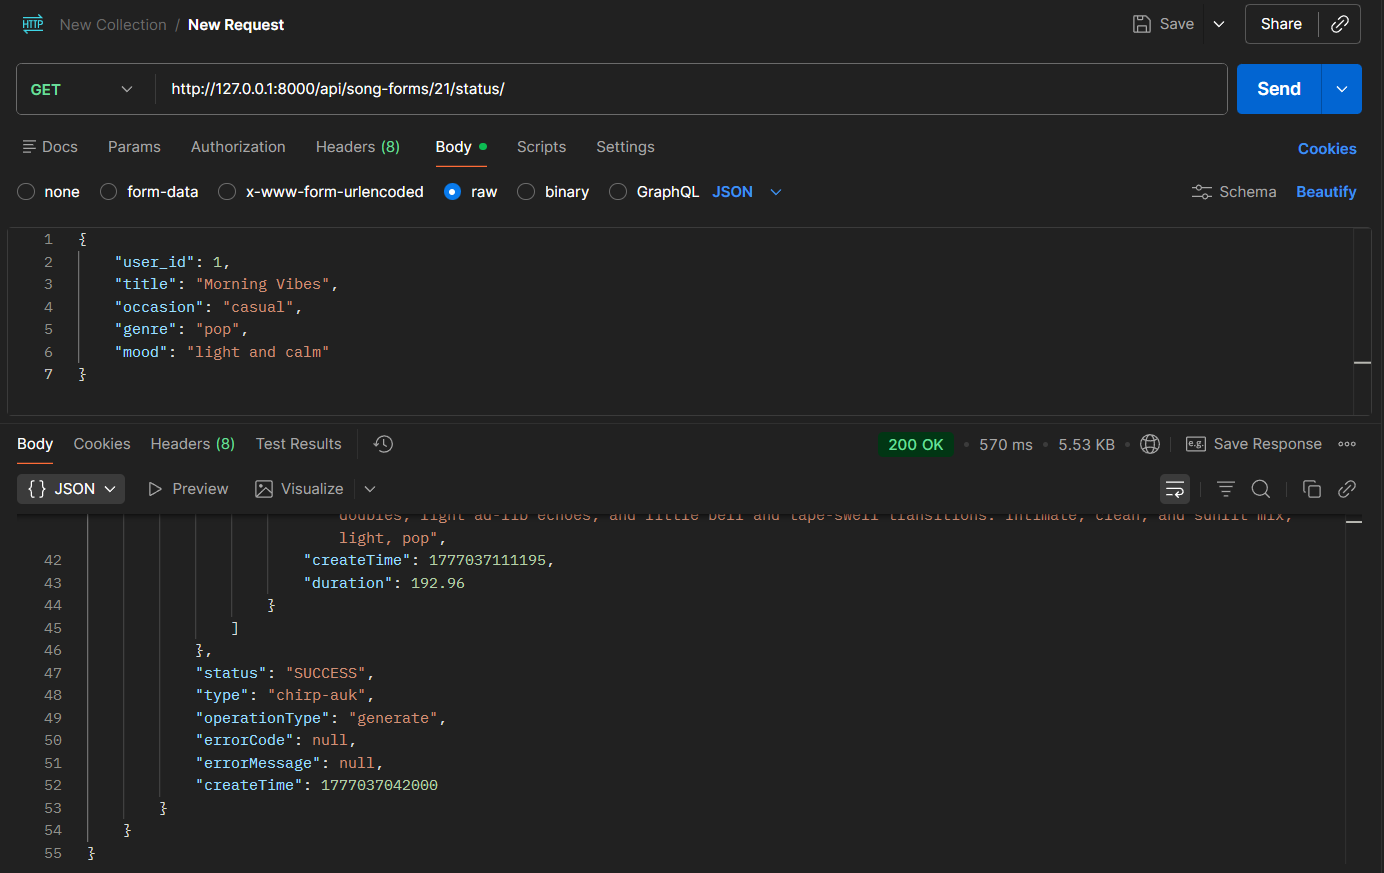
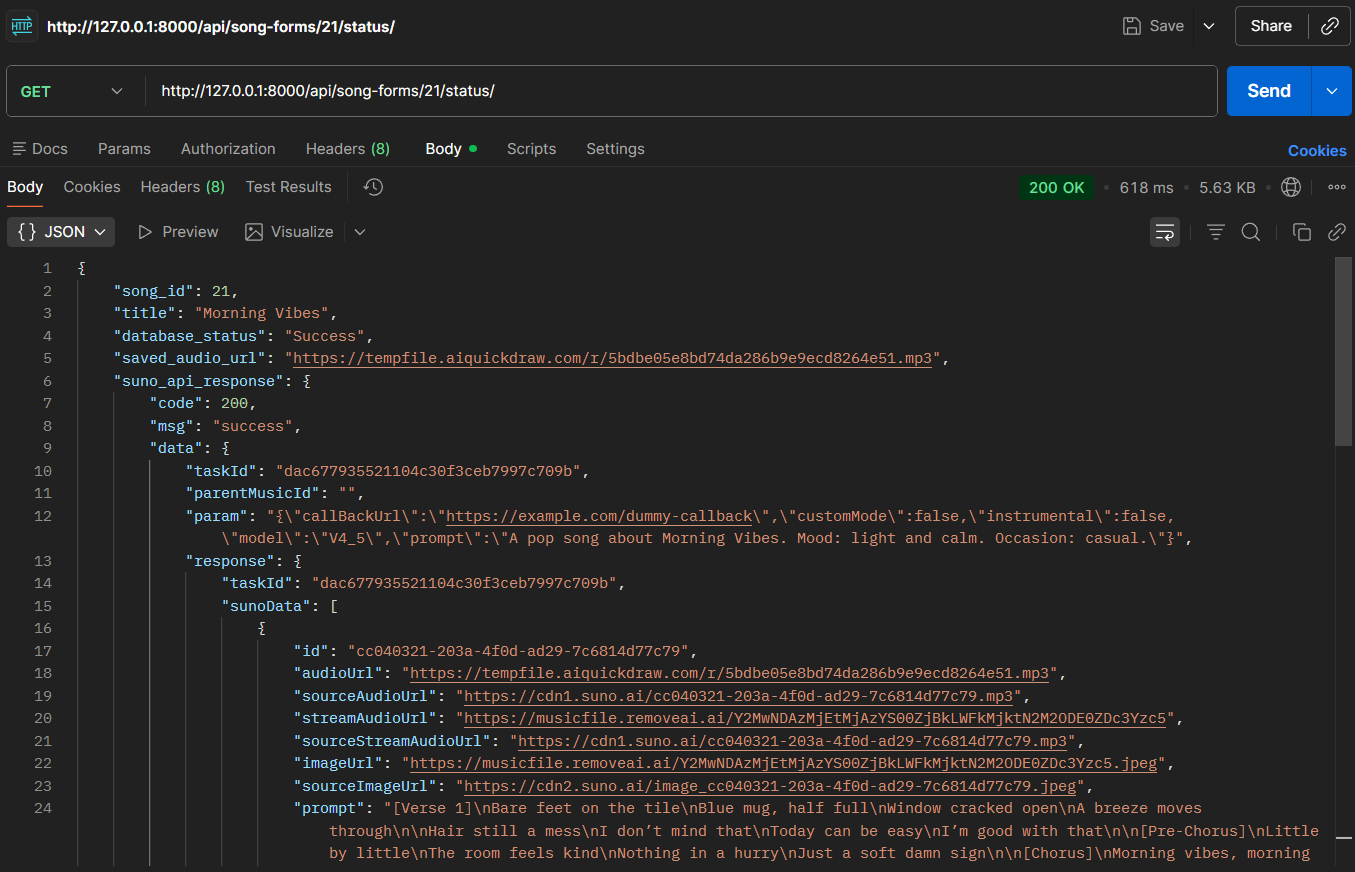
complete the database and make the model have 1 class per file

diff --git a/domain/views.py b/domain/views.py
@@ -1,7 +1,8 @@
 import json
 from django.http import JsonResponse
 from django.views.decorators.csrf import csrf_exempt
-from domain.models import Song, User
+from domain.models.song import Song
+from domain.models.user import User
 from domain.generation.factory import get_generator_strategy
 
 # --- 1. Endpoint to Create a User ---
@@ -13,17 +14,22 @@ def create_user_api(request):
             # Read the JSON data sent from Postman
             body = json.loads(request.body)
             
-            # Create the user in the database
-            # We use .get() so it doesn't crash if they forget to send a name
-            user = User.objects.create(
-                name=body.get('name', 'Anonymous User')
+            # Extract data with safe fallbacks
+            email = body.get('email', 'test@example.com')
+            name = body.get('name', 'Testing User')
+            
+            # Use get_or_create to prevent crashes on duplicate emails!
+            user, created = User.objects.get_or_create(
+                email=email,
+                defaults={'name': name}
             )
             
             return JsonResponse({
-                "message": "User created successfully",
+                "message": "User created successfully" if created else "User already exists",
                 "user_id": user.id,
-                "name": user.name
-            }, status=201)
+                "name": user.name,
+                "email": user.email
+            }, status=201 if created else 200)
             
         except Exception as e:
             return JsonResponse({"error": str(e)}, status=400)
@@ -74,28 +80,47 @@ def generate_song_api(request):
 
 @csrf_exempt
 def check_song_status_api(request, song_id):
-    """API to poll the status of a generating song"""
+    """API to poll the status of a generating song and save metadata when done"""
     if request.method == 'GET':
         try:
-            # 1. Find the song in the database using the ID from the URL
+            # 1. Find the song
             try:
                 song = Song.objects.get(id=song_id)
             except Song.DoesNotExist:
                 return JsonResponse({"error": f"Song with ID {song_id} not found."}, status=404)
 
-            # 2. Check if it even has a task ID
             if not song.task_id:
                 return JsonResponse({"error": "This song does not have a generation task ID."}, status=400)
 
-            # 3. Use the strategy to poll the API for the latest status
+            # 2. Check the API
             generator = get_generator_strategy()
             result = generator.check_status(song)
 
-            # 4. Return the result to Postman
+            # --- NEW CODE: SAVE THE METADATA ---
+            # BUG FIX: We must look inside the 'data' dictionary for the status!
+            if result.get('data', {}).get('status') == 'SUCCESS':
+                
+                # Update the database status
+                song.generation_status = 'Success' 
+                
+                # Dig into the Suno JSON to find the links
+                suno_data = result.get('data', {}).get('response', {}).get('sunoData', [])
+                if suno_data:
+                    first_track = suno_data[0]
+                    # Get the final audio and image URLs
+                    song.audio_url = first_track.get('audioUrl') or first_track.get('streamAudioUrl')
+                    song.image_url = first_track.get('imageUrl')
+                
+                # Save the changes to the database!
+                song.save()
+            # -----------------------------------------------------
+
+            # 3. Return the result to Postman
             return JsonResponse({
                 "song_id": song.id,
                 "title": song.title,
                 "database_status": song.generation_status,
+                "saved_audio_url": song.audio_url,  # This will now show up!
                 "suno_api_response": result
             }, status=200)
 

diff --git a/domain/models/song.py b/domain/models/song.py
@@ -1,0 +1,33 @@
+from django.db import models
+from .user import User
+from .choices.occasion import Occasion
+from .choices.genre import Genre
+from .choices.voice_type import VoiceType
+from .choices.mood import Mood
+from .choices.generate_status import GenerateStatus
+
+class Song(models.Model):
+    # Relationship: Each Song belongs to exactly one User.
+    user = models.ForeignKey(User, on_delete=models.CASCADE, related_name='songs')
+    
+    title = models.CharField(max_length=255)
+    occasion = models.CharField(max_length=50, choices=Occasion.choices)
+    genre = models.CharField(max_length=50, choices=Genre.choices)
+    voice_type = models.CharField(max_length=50, choices=VoiceType.choices)
+    mood = models.CharField(max_length=50, choices=Mood.choices)
+    duration_time = models.DurationField(null=True, blank=True)
+    created_at = models.DateTimeField(auto_now_add=True)
+    generation_status = models.CharField(max_length=50, choices=GenerateStatus.choices, default=GenerateStatus.PENDING)
+    task_id = models.CharField(max_length=255, blank=True, null=True)
+    shared_link = models.URLField(max_length=500, blank=True, null=True)
+    
+    # Optional Fields
+    story_text = models.TextField(blank=True, null=True)
+    cover_image = models.ImageField(upload_to='covers/', blank=True, null=True)
+
+    # Metadata fields for the Final Project
+    audio_url = models.URLField(max_length=500, blank=True, null=True)
+    image_url = models.URLField(max_length=500, blank=True, null=True)
+
+    def __str__(self):
+        return f"{self.title} by {self.user.name}"

diff --git a/domain/migrations/0003_song_audio_url_song_image_url.py b/domain/migrations/0003_song_audio_url_song_image_url.py
@@ -1,0 +1,23 @@
+# Generated by Django 6.0.3 on 2026-04-25 08:22
+
+from django.db import migrations, models
+
+
+class Migration(migrations.Migration):
+
+    dependencies = [
+        ('domain', '0002_song_task_id'),
+    ]
+
+    operations = [
+        migrations.AddField(
+            model_name='song',
+            name='audio_url',
+            field=models.URLField(blank=True, max_length=500, null=True),
+        ),
+        migrations.AddField(
+            model_name='song',
+            name='image_url',
+            field=models.URLField(blank=True, max_length=500, null=True),
+        ),
+    ]

diff --git a/domain/models/notification.py b/domain/models/notification.py
@@ -1,0 +1,13 @@
+from django.db import models
+from .user import User
+from .choices.notification_type import NotificationType
+
+class Notification(models.Model):
+    # Relationship: Notification records user actions
+    user = models.ForeignKey(User, on_delete=models.CASCADE, related_name='notifications')
+    action_type = models.CharField(max_length=50, choices=NotificationType.choices) 
+    message = models.TextField() 
+    timestamp = models.DateTimeField(auto_now_add=True) 
+
+    def __str__(self):
+        return f"{self.get_action_type_display()} - {self.user.name}"

diff --git a/domain/models/__init__.py b/domain/models/__init__.py
@@ -1,0 +1,11 @@
+from .user import User
+from .song import Song
+from .notification import Notification
+
+# Link to the choices folder
+from .choices.mood import Mood
+from .choices.genre import Genre
+from .choices.voice_type import VoiceType
+from .choices.occasion import Occasion
+from .choices.generate_status import GenerateStatus
+from .choices.notification_type import NotificationType

diff --git a/domain/models/user.py b/domain/models/user.py
@@ -1,0 +1,10 @@
+from django.db import models
+
+class User(models.Model):
+    name = models.CharField(max_length=255) 
+    email = models.EmailField(unique=True) 
+    daily_generate_count = models.IntegerField(default=0) 
+    last_generate_date = models.DateField(null=True, blank=True) 
+
+    def __str__(self):
+        return self.name

diff --git a/domain/models/choices/notification_type.py b/domain/models/choices/notification_type.py
@@ -1,0 +1,8 @@
+from django.db import models
+
+class NotificationType(models.TextChoices):
+    CREATED_SUCCESS = 'Created success', 'Created success'
+    CREATED_FAIL = 'Created fail', 'Created fail'
+    DELETED = 'Deleted', 'Deleted'
+    SHARED = 'Shared', 'Shared'
+    DOWNLOADED = 'Downloaded', 'Downloaded'

diff --git a/domain/models/choices/mood.py b/domain/models/choices/mood.py
@@ -1,0 +1,8 @@
+from django.db import models
+
+class Mood(models.TextChoices):
+    HAPPY = 'Happy', 'Happy'
+    SAD = 'Sad', 'Sad'
+    CHILL = 'Chill', 'Chill'
+    ROMANTIC = 'Romantic', 'Romantic'
+    ENERGETIC = 'Energetic', 'Energetic'

diff --git a/domain/models/choices/genre.py b/domain/models/choices/genre.py
@@ -1,0 +1,8 @@
+from django.db import models
+
+class Genre(models.TextChoices):
+    POP = 'Pop', 'Pop'
+    ROCK = 'Rock', 'Rock'
+    LOFI = 'Lofi', 'Lofi'
+    ROMANTIC = 'Romantic', 'Romantic'
+    ENERGETIC = 'Energetic', 'Energetic'

diff --git a/domain/models/choices/generate_status.py b/domain/models/choices/generate_status.py
@@ -1,0 +1,6 @@
+from django.db import models
+
+class GenerateStatus(models.TextChoices):
+    PENDING = 'Pending', 'Pending'
+    SUCCESS = 'Success', 'Success'
+    FAIL = 'Fail', 'Fail'

diff --git a/domain/models/choices/occasion.py b/domain/models/choices/occasion.py
@@ -1,0 +1,6 @@
+from django.db import models
+
+class Occasion(models.TextChoices):
+    BIRTHDAY = 'Birthday', 'Birthday'
+    WEDDING = 'Wedding', 'Wedding'
+    PARTY = 'Party', 'Party'

diff --git a/domain/models/choices/voice_type.py b/domain/models/choices/voice_type.py
@@ -1,0 +1,5 @@
+from django.db import models
+
+class VoiceType(models.TextChoices):
+    MALE = 'Male', 'Male'
+    FEMALE = 'Female', 'Female'
